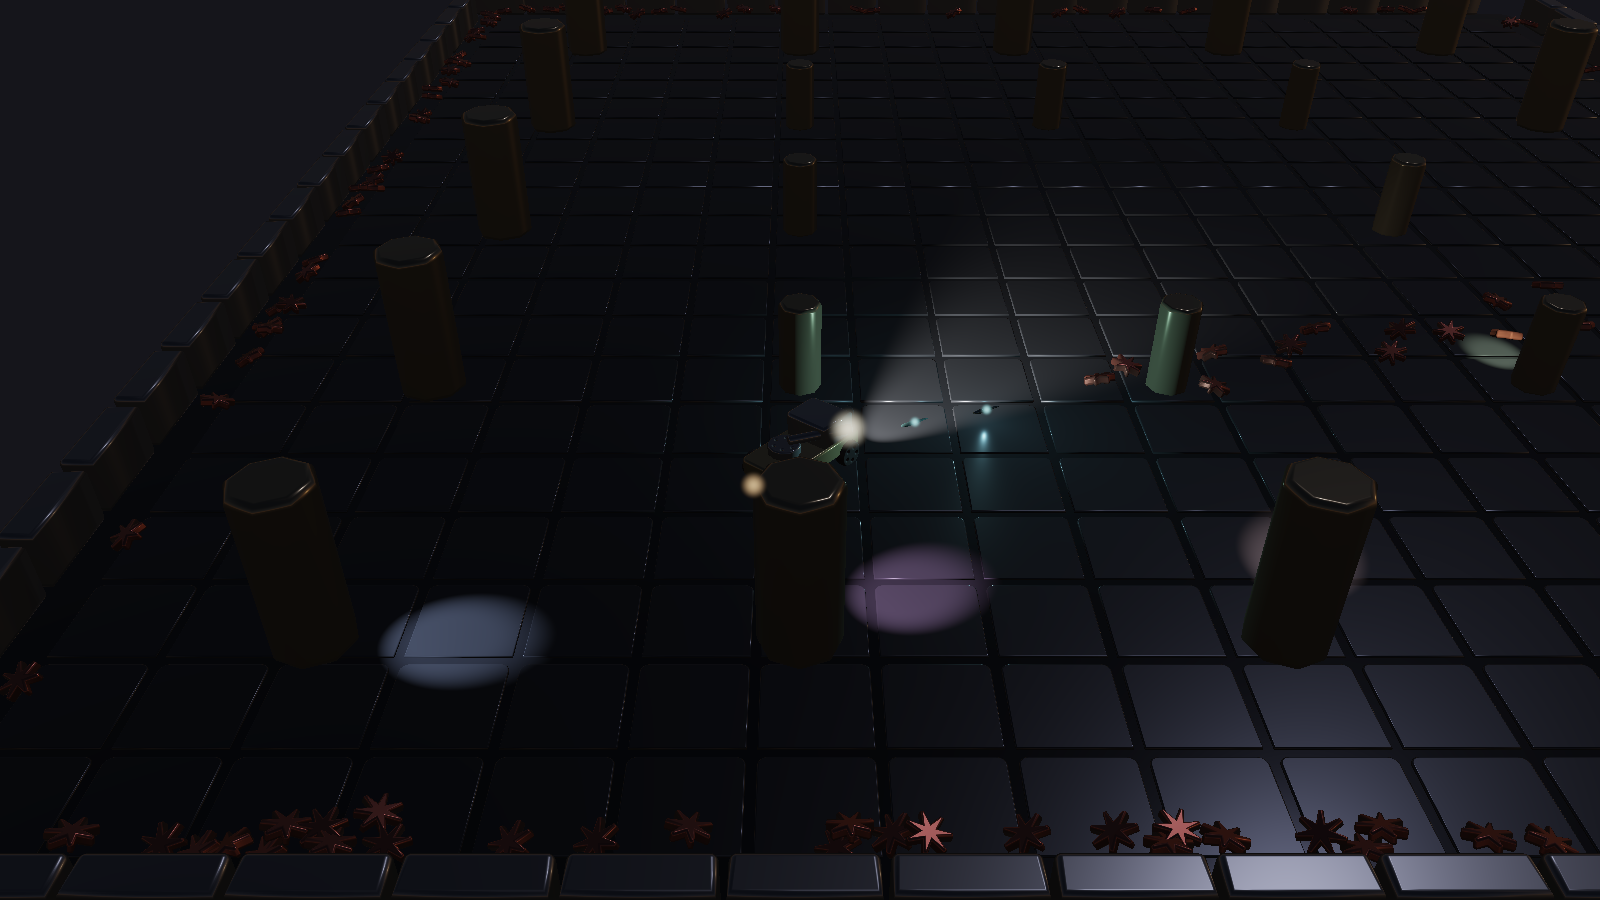
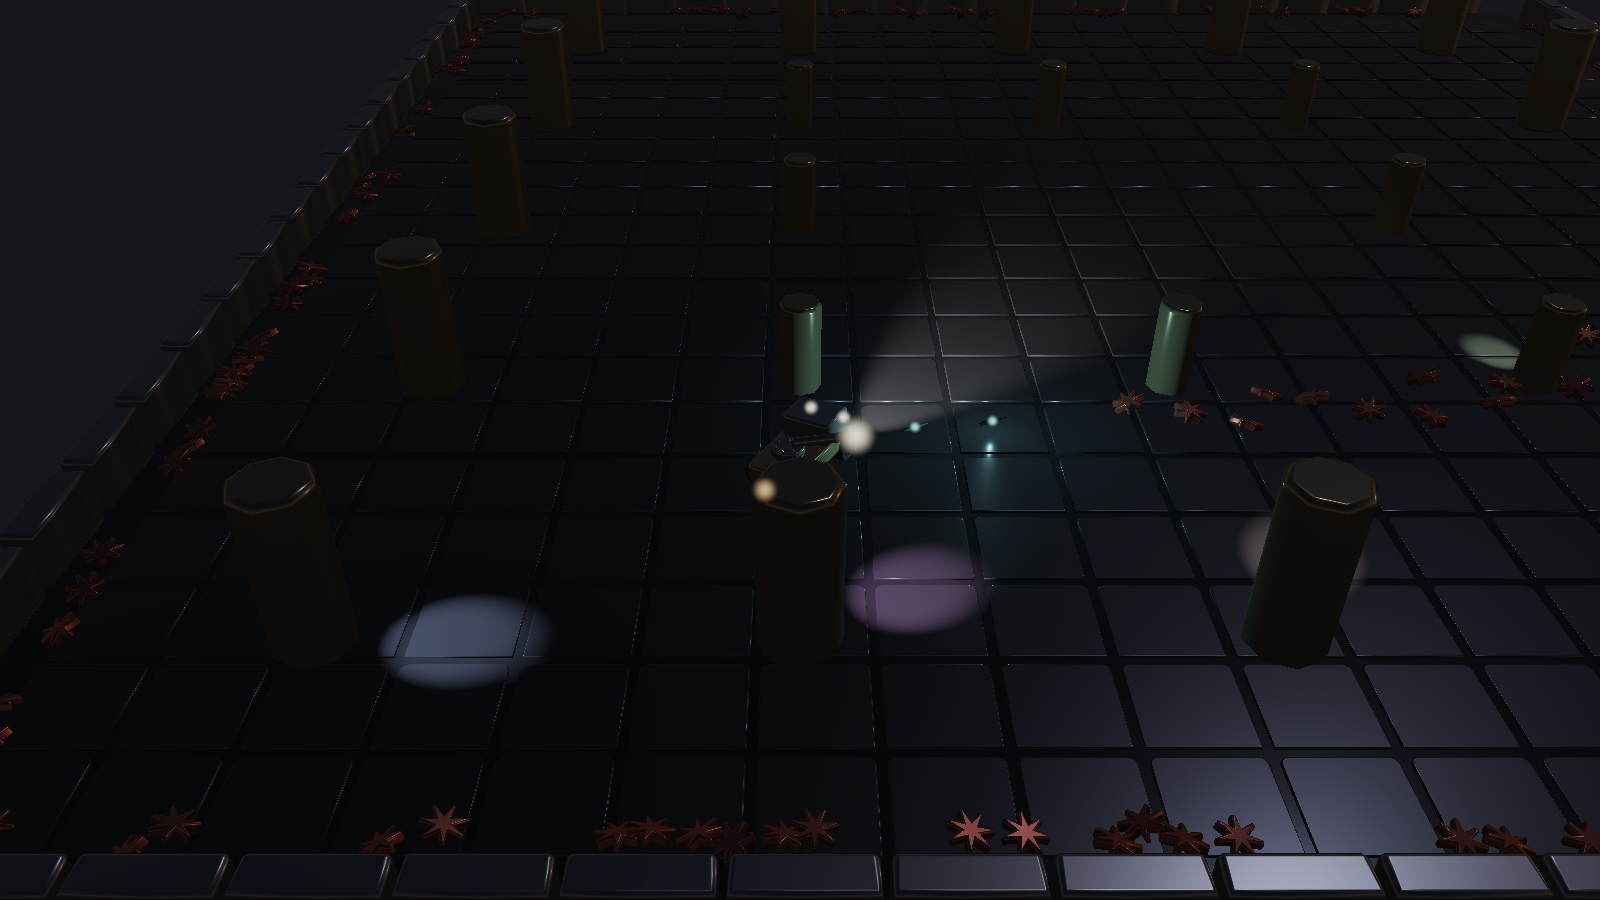
Two headlights, on the truck rather than in front of it
There were two headlight beams and nothing on the truck they came out of, and
they were worse than that: both started at the same point aimed the same way,
which is not two lights, it is one light of twice the strength. So the truck
had one glow ahead of it with no source.

Two lamps on the front of the cab now, near-white and glossy so they read as
lit glass rather than as two more lumps of the same metal, each with a glow of
its own so they are bright from any angle. The beams come out of the lamps and
are toed thirteen hundredths of a radian outward each, so the two pools sit
side by side and the truck throws a fan rather than a spot.

Where a lamp sits is three constants in scene.ts that the model and the beam
both read, so they cannot drift apart.

Verified: at a heading of 90 degrees the two lights sit at plus and minus 42
across the truck, both at lamp height, bearing 83 and 97.

diff --git a/src/main.ts b/src/main.ts
@@ -14,13 +14,13 @@ import { bakeEnvironment } from 'artshape-render/render/env';
 import { GameRenderer, EFFECT_STRIDE, type GameGroup } from 'artshape-render/game/renderer';
 import { LightPool } from 'artshape-render/game/lights';
 import { Arena, MAX_BOLTS, MAX_ENEMIES, type Input } from './game';
-import { ARENA_X, ARENA_Y, MESHES, arenaMatrices } from './scene';
+import { ARENA_X, ARENA_Y, LAMP_ACROSS, LAMP_AHEAD, LAMP_HEIGHT, MESHES, arenaMatrices } from './scene';
 import { hide, place, placeAxle, placeTipped, project } from './matrix';
 import { EFFECT_CAPACITY, LIGHT_CAPACITY, effectsFor, lightsFor, setProjectionScale } from './lighting';
 
 const FOV = 40;
 /** Where the dynamic groups sit, in the order they are handed over. */
-const CHASSIS = 0, CAB = 1, WHEELS = 2, TURRET = 3, BARREL = 4, DRONES = 5, BOLTS = 6;
+const CHASSIS = 0, CAB = 1, WHEELS = 2, TURRET = 3, BARREL = 4, LAMPS = 5, DRONES = 6, BOLTS = 7;
 
 const canvas = document.getElementById('view') as HTMLCanvasElement;
 const boot = document.getElementById('boot')!;
@@ -75,7 +75,7 @@ async function main() {
   const mesh = {
     floor: MESHES.floor(), tile: MESHES.tile(), block: MESHES.block(), column: MESHES.column(),
     chassis: MESHES.chassis(), cab: MESHES.cab(), wheel: MESHES.wheel(),
-    turret: MESHES.turret(), barrel: MESHES.barrel(),
+    turret: MESHES.turret(), barrel: MESHES.barrel(), lamp: MESHES.lamp(),
     drone: MESHES.drone(), bolt: MESHES.bolt(),
   };
   const at = arenaMatrices();
@@ -94,6 +94,7 @@ async function main() {
   const wheelM = new Float32Array(4 * 16);
   const turretM = new Float32Array(16);
   const barrelM = new Float32Array(16);
+  const lampM = new Float32Array(2 * 16);
   const droneM = new Float32Array(MAX_ENEMIES * 16);
   const boltM = new Float32Array(MAX_BOLTS * 16);
   const droneMat = new Float32Array(MAX_ENEMIES * 4);
@@ -107,6 +108,9 @@ async function main() {
     { mesh: mesh.wheel, matrices: wheelM, count: 4, albedo: [0.07, 0.07, 0.08], roughness: 0.62 },
     { mesh: mesh.turret, matrices: turretM, albedo: [0.74, 0.76, 0.82], roughness: 0.2 },
     { mesh: mesh.barrel, matrices: barrelM, albedo: [0.90, 0.92, 0.97], roughness: 0.1 },
+    // near white and glossy, so the lamps read as lit glass rather than as
+    // two more lumps of the same metal the truck is made of
+    { mesh: mesh.lamp, matrices: lampM, count: 2, albedo: [1.0, 0.97, 0.9], roughness: 0.06 },
     // hotter and glossier than the floor it stands on, so it reads as a thing
     // rather than as a patch of the ground
     { mesh: mesh.drone, matrices: droneM, count: 0, albedo: [1.0, 0.32, 0.20], roughness: 0.19 },
@@ -311,6 +315,15 @@ async function main() {
       }
     }
     renderer.move(WHEELS, wheelM, 4);
+
+    // the lamps, laid over to face along the nose as the barrel and the
+    // bolts are, a quarter turn past the heading
+    let lamp = 0;
+    for (const ly of [-LAMP_ACROSS, LAMP_ACROSS]) {
+      placeTipped(lampM, lamp++, wx(LAMP_AHEAD, ly), wy(LAMP_AHEAD, ly), LAMP_HEIGHT,
+        yaw + Math.PI / 2, Math.PI / 2, 1);
+    }
+    renderer.move(LAMPS, lampM, 2);
 
     const gx = arena.gunX; const gy = arena.gunY;
     place(turretM, 0, gx, gy, 88, arena.aim, 1);

diff --git a/src/lighting.ts b/src/lighting.ts
@@ -18,7 +18,7 @@
 import { LightPool } from 'artshape-render/game/lights';
 import { EFFECT_STRIDE } from 'artshape-render/game/renderer';
 import type { Arena } from './game';
-import { COLUMNS, COLUMN_HEIGHT } from './scene';
+import { COLUMNS, COLUMN_HEIGHT, LAMP_ACROSS, LAMP_AHEAD, LAMP_HEIGHT } from './scene';
 import { project } from './matrix';
 
 export const LIGHT_CAPACITY = 256;
@@ -81,14 +81,20 @@ export function lightsFor(pool: LightPool, arena: Arena, t: number) {
   // Headlights: shorter, wider, and pointed where the truck is going rather
   // than where it is looking. They are what stops you driving into a post
   // while watching something else.
+  //
+  // Each comes out of its own lamp and is toed a little outward, so the two
+  // pools sit side by side instead of on top of one another. Two beams from
+  // the same point aimed the same way are one beam of twice the strength,
+  // which is what these were.
   for (const side of [-1, 1]) {
+    const toe = arena.pAngle + side * 0.13;
     pool.add({
-      position: at(120, side * 46, 74),
+      position: at(LAMP_AHEAD, side * LAMP_ACROSS, LAMP_HEIGHT),
       radius: 2200,
       colour: hurt ? [1, 0.45, 0.4] : [1, 0.96, 0.86],
-      intensity: 11,
-      direction: [cy, sy, -0.30],
-      cone: [13, 30],
+      intensity: 7,
+      direction: [Math.cos(toe), Math.sin(toe), -0.30],
+      cone: [12, 27],
     });
   }
 
@@ -199,6 +205,12 @@ export function effectsFor(out: Float32Array, arena: Arena, vp: Float32Array): n
       const [bx, by] = at(-140, side * 48);
       n = glow(out, n, vp, bx, by, 58, 22, 1.6 * arena.braking, [1, 0.15, 0.08], 2.6);
     }
+  }
+  // the lamps themselves, so they are two bright points on the truck rather
+  // than two dark discs with light appearing in front of them
+  for (const side of [-1, 1]) {
+    const [lx, ly] = at(LAMP_AHEAD + 6, side * LAMP_ACROSS);
+    n = glow(out, n, vp, lx, ly, LAMP_HEIGHT, 24, 2.2, [1, 0.96, 0.86], 2.8);
   }
   if (arena.lastShot < 0.06) {
     const f = 1 - arena.lastShot / 0.06;

diff --git a/src/scene.ts b/src/scene.ts
@@ -63,6 +63,15 @@ export function part(source: string, anchor: Anchor = 'centre'): Mesh {
 }
 
 /**
+ * Where a headlamp sits in the truck's own frame: ahead of the cab, out to
+ * either side, at bumper height. The model is placed from these and so is the
+ * beam, so a beam always comes out of a lamp you can see.
+ */
+export const LAMP_AHEAD = 118;
+export const LAMP_ACROSS = 42;
+export const LAMP_HEIGHT = 84;
+
+/**
  * Half the arena, in the millimetres everything else is modelled in: square,
  * and 4.8 metres across.
  *
@@ -104,6 +113,13 @@ export const MESHES = {
   turret: () => part('disc(radius: 37, thickness: 22, sides: 12, bolts: 6, boltCircle: 23, boltBore: 4, bevel: 4)'),
   /** The barrel. Modelled along its own z and laid over to point where it aims. */
   barrel: () => part('disc(radius: 11, thickness: 146, sides: 12, bevel: 3)'),
+  /**
+   * A headlamp. Two of them on the front of the cab, laid over to face the
+   * way the truck is going. There were two headlight beams before this and
+   * nothing on the truck they came out of, which read as one glow with no
+   * source — a lamp you can see is what makes a beam belong to the vehicle.
+   */
+  lamp: () => part('disc(radius: 17, thickness: 14, sides: 14, bevel: 4)'),
 
   /**
    * An enemy: a spiked star, lying flat and spinning. A round bead read as a

diff --git a/README.md b/README.md
@@ -167,6 +167,6 @@ and quality ladder exist for exactly that and this demo does not use them yet.
 | --- | --- |
 | `src/main.ts` | wiring: device, meshes, pools, the frame loop |
 | `src/game.ts` | state, flight and rules. Knows nothing about the GPU |
-| `src/scene.ts` | the parametric parts and where the static half stands |
+| `src/scene.ts` | the parametric parts, where the static half stands, and where a headlamp sits |
 | `src/lighting.ts` | the light list and the glow list, rebuilt every frame |
 | `src/matrix.ts` | placements, and projecting a point to the screen |
